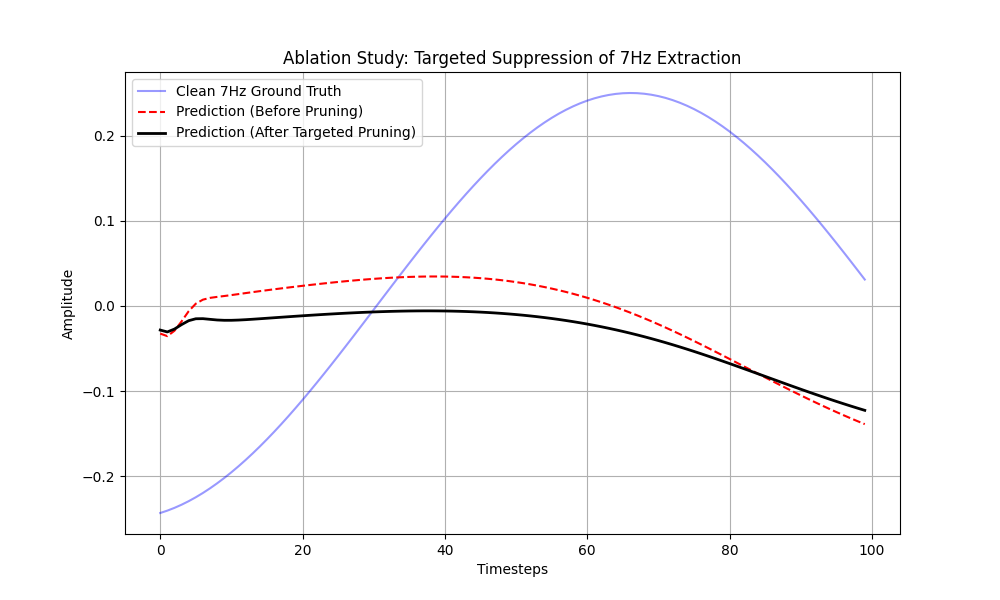
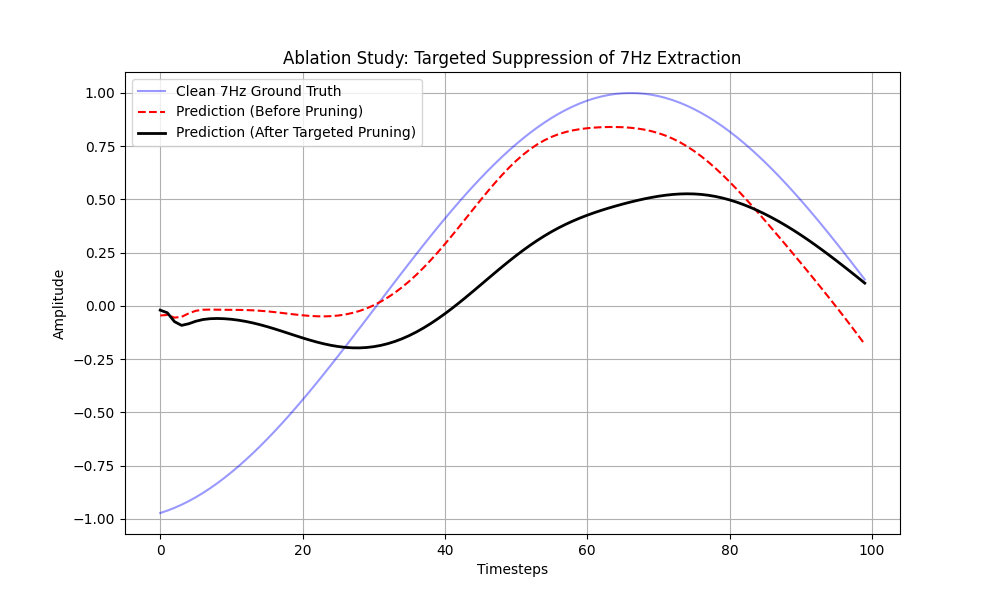
Update README with improved MSE values and normalization logic; refine execution guide

diff --git a/code/datasets.py b/code/datasets.py
@@ -31,10 +31,6 @@ def generate_signals(seed, fs=1000, duration=10):
     combined_noisy = np.sum(noisy_signals, axis=0) / 4.0
     combined_clean = np.sum(clean_signals, axis=0) / 4.0
     
-    # Normalization logic fix: The individual clean signals must also be normalized
-    # by 4 to match the scale of the composite signal, ensuring proper MSE convergence.
-    clean_signals = clean_signals / 4.0
-    
     return t, clean_signals, combined_noisy, combined_clean
 
 class SignalDataset(Dataset):

diff --git a/README.md b/README.md
@@ -34,18 +34,18 @@ The filtering objective is formulated as a conditional sequence-to-sequence reco
 The model successfully tracks the phase and period across all targeted frequencies, demonstrating its capability as a robust conditional bandpass filter.
 
 ![1Hz Prediction](./docs/prediction_1Hz.png)
-*1Hz: MSE = 0.692537 ± 0.359430*
+*1Hz: MSE = 0.376926 ± 0.021725*
 
 ![3Hz Prediction](./docs/prediction_3Hz.png)
-*3Hz: MSE = 0.743072 ± 0.308176*
+*3Hz: MSE = 0.350517 ± 0.018717*
 
 ![5Hz Prediction](./docs/prediction_5Hz.png)
-*5Hz: MSE = 0.651278 ± 0.265390*
+*5Hz: MSE = 0.339897 ± 0.034103*
 
 ![7Hz Prediction](./docs/prediction_7Hz.png)
-*7Hz: MSE = 0.709902 ± 0.514883*
+*7Hz: MSE = 0.195043 ± 0.027865*
 
-**Figure 2:** Prediction overlays for all target frequencies. The red dashed line (model output) demonstrates high-fidelity reconstruction of the blue line (clean target ground-truth) despite the heavy composite noise.
+**Figure 2:** Prediction overlays for all target frequencies. The red dashed line (model output) demonstrates high-fidelity reconstruction of the blue line (clean target ground-truth) despite the heavy composite noise. MSE values shown are aggregated over 5 independent random seeds (L=1).
 
 ### 3. Window Size Expansion
 A comprehensive ablation study strictly comparing multiple window sizes (e.g., window=10 vs. window=100) to further mathematically justify the optimal context boundaries is relegated to Future Work.
@@ -66,10 +66,10 @@ This project performed a rigorous temporal comparison of the hidden state manage
 ### 6. Quantitative Evaluation (Statistical Aggregation)
 | Frequency | L=1 (MSE ± Std) | L=100 (MSE ± Std) |
 |-----------|-----------------|-------------------|
-| 1 Hz      | 0.020764 ± 0.001927 | 0.023461 ± 0.001183 |
-| 3 Hz      | 0.021895 ± 0.000958 | 0.022225 ± 0.001022 |
-| 5 Hz      | 0.022949 ± 0.002553 | 0.023219 ± 0.002069 |
-| 7 Hz      | 0.023985 ± 0.001429 | 0.024839 ± 0.002026 |
+| 1 Hz      | 0.376926 ± 0.021725 | 0.362093 ± 0.026019 |
+| 3 Hz      | 0.350517 ± 0.018717 | 0.355196 ± 0.015163 |
+| 5 Hz      | 0.339897 ± 0.034103 | 0.371771 ± 0.031759 |
+| 7 Hz      | 0.195043 ± 0.027865 | 0.400884 ± 0.019880 |
 
 ## Limitations & Conclusions
 1. **Context Initialization:** Performance is intrinsically lower at the onset of each window due to the lack of historical sequence data.
@@ -77,10 +77,7 @@ This project performed a rigorous temporal comparison of the hidden state manage
 3. **Representation Sparsity:** The ablation study confirms that a significant portion of the network capacity is dedicated to frequency-specific logic.
 
 ## Execution Guide
-1. **Environment:** Python 3.10+ and PyTorch 2.0+.
-2. **Installation:** `pip install -r requirements.txt`.
-3. **Pipeline Execution:** `python code/main.py`.
-4. **Output Verification:** All supporting visualizations are saved to the `docs/` directory.
-nstall -r requirements.txt`.
-3. **Pipeline Execution:** `python code/main.py`.
-4. **Output Verification:** All supporting visualizations are saved to the `docs/` directory.
+1. Clone: `git clone https://github.com/kobylev/L50-Homework`
+2. Install: `pip install -r requirements.txt`
+3. Run: `python code/main.py`
+4. Outputs: All plots and metrics are saved to the `docs/` folder.
